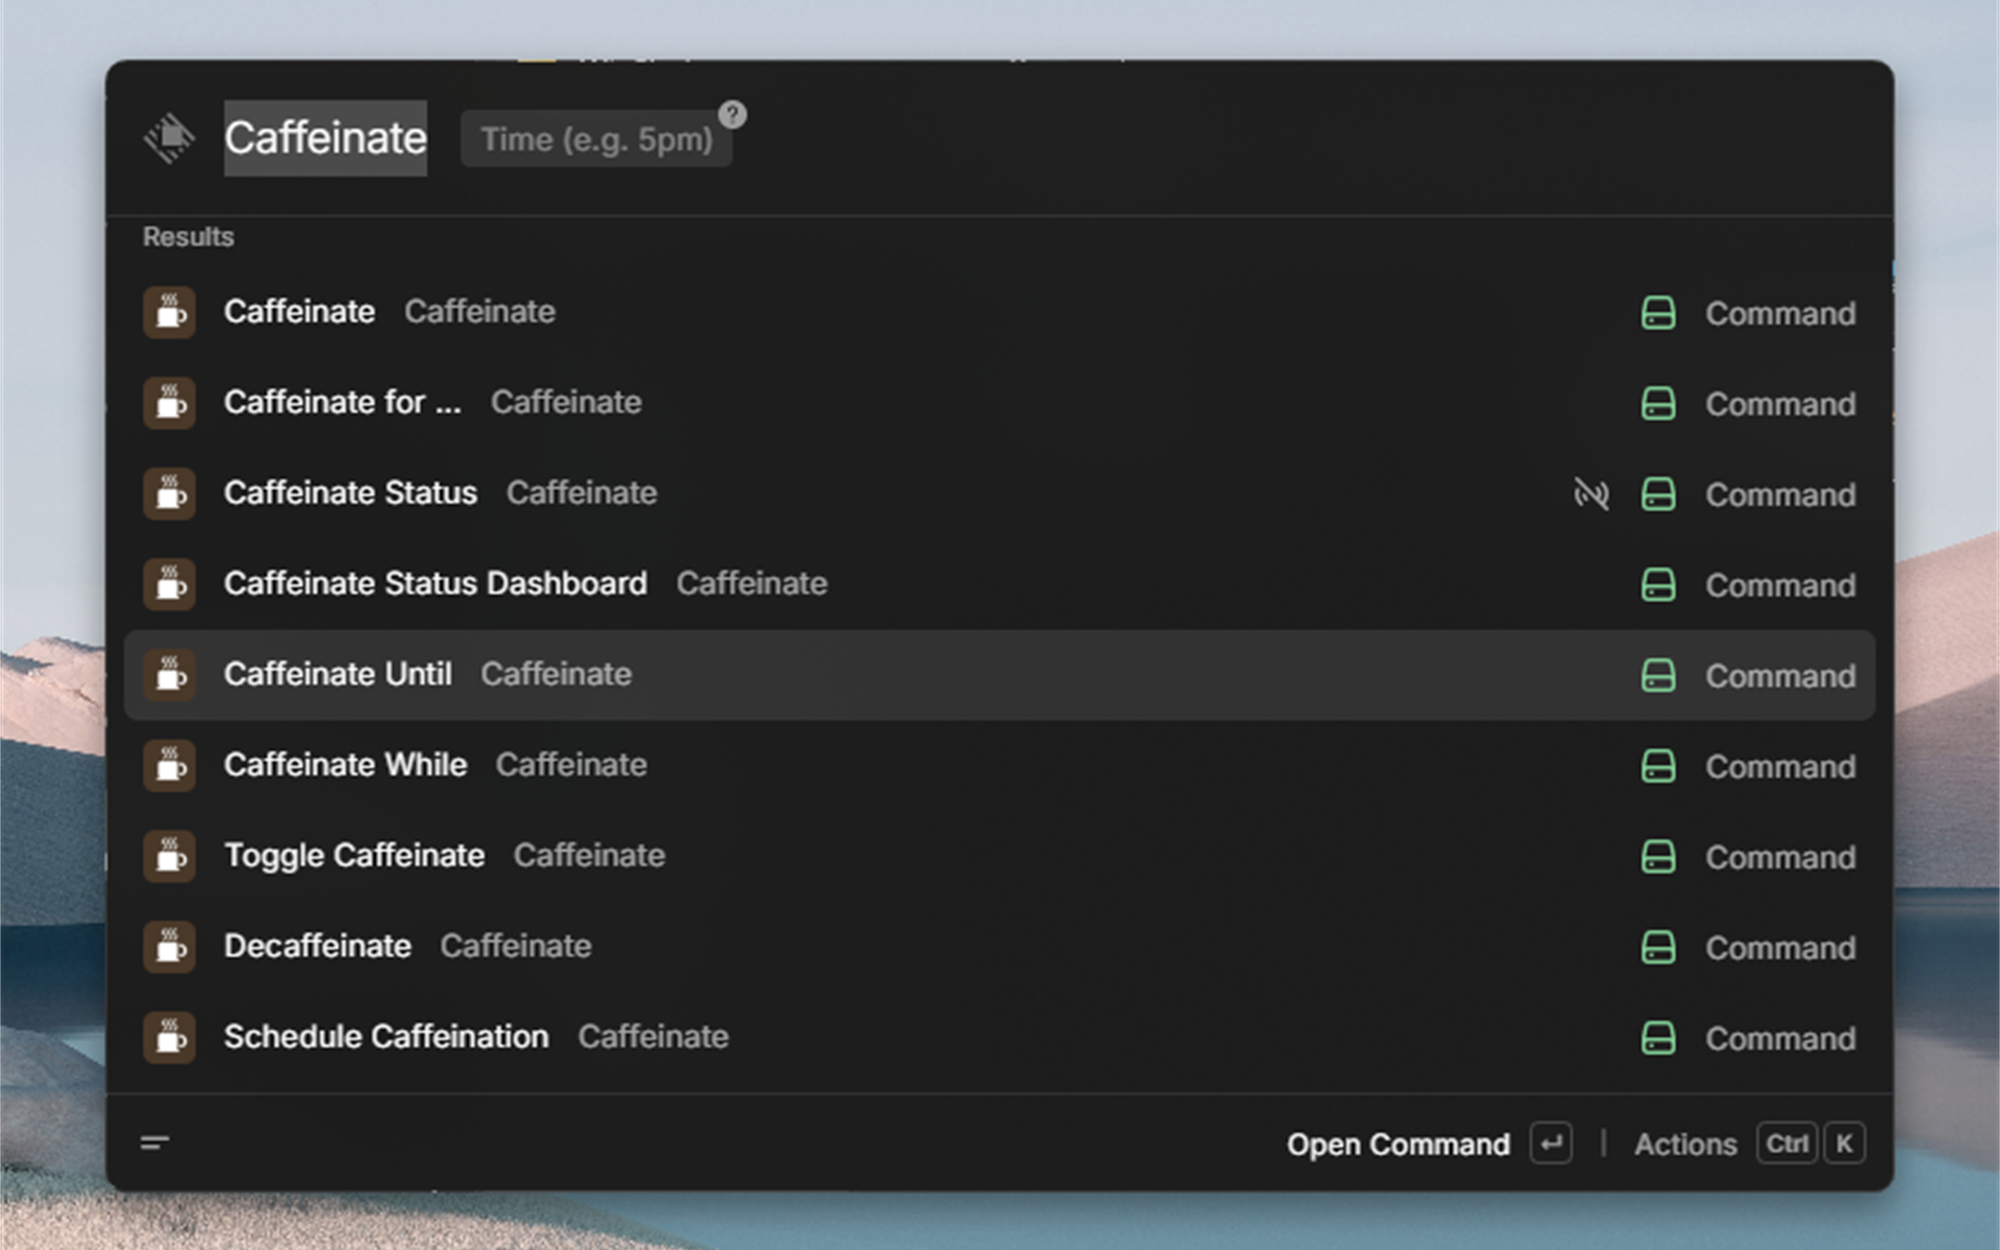
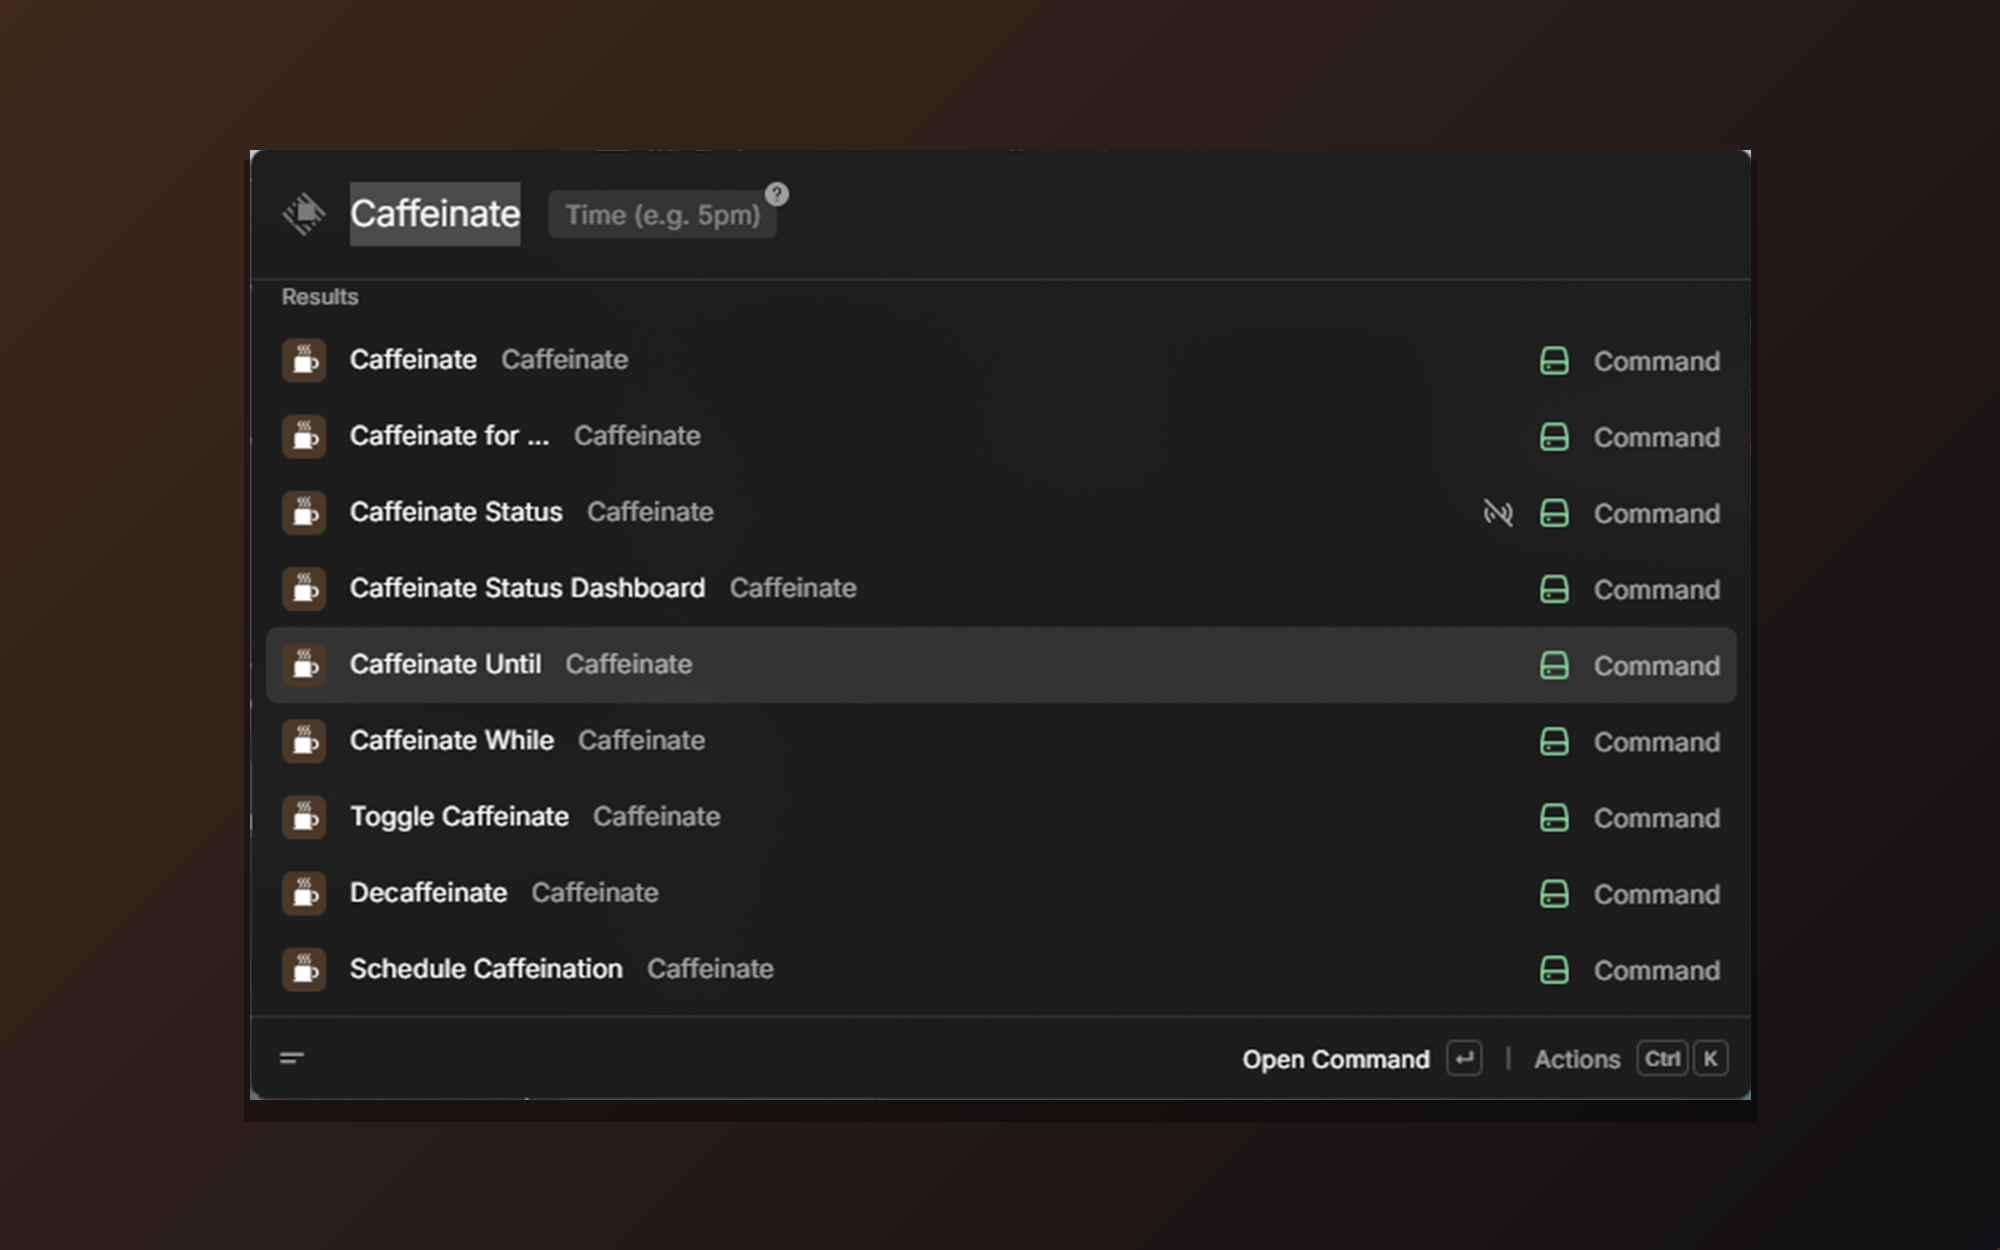
Fix PR review findings and metadata image padding
Screenshots (fixes CI "Metadata Image Enforcer" failure):
- The store requires each screenshot's app window to be a tight crop
  centered on the 2000x1250 canvas with 8-17% padding on all sides.
  The previous images filled the canvas edge-to-edge (0% left/right,
  ~0-4.7% top/bottom), which failed all 5 padding checks on all 5
  images. Regenerated by detecting the window's bounding box in each
  capture, cropping to just the window, and centering it on a warm
  gradient backdrop at ~12% padding on every side (verified exactly
  against the check's own tolerance).

Code fixes (from automated PR review):
- Fix: Start-Process's array-form -ArgumentList does not quote array
  elements containing spaces when building the child process's command
  line, so a supportPath like "C:\Users\Jane Doe\..." silently split
  into separate tokens and the helper process crashed on launch
  ("'...\Jane' does not have a '.ps1' extension") while startCaffeinate
  still reported success, since Start-Process doesn't wait for the
  child. Confirmed by direct reproduction, then fixed by building a
  single manually-quoted argument string instead of an array, and
  re-verified end to end.
- Fix: schedules crossing midnight (e.g. 22:00 to 06:00) compared
  start/end using a same-day AND condition that can never be true for
  an overnight window, so such a schedule was accepted but silently
  never activated. Now compares total minutes and handles the
[…]

diff --git a/src/extractSchedule.ts b/src/extractSchedule.ts
@@ -3,8 +3,24 @@ import { ParsedSchedule } from "./interfaces";
 
 export type { ParsedSchedule };
 
+const DAY_ABBREVIATIONS: Record<string, string> = {
+  mon: "monday",
+  tue: "tuesday",
+  tues: "tuesday",
+  wed: "wednesday",
+  weds: "wednesday",
+  thu: "thursday",
+  thur: "thursday",
+  thurs: "thursday",
+  fri: "friday",
+  sat: "saturday",
+  sun: "sunday",
+};
+
 export async function extractSchedule(text: string): Promise<ParsedSchedule | null> {
   const daysOfWeek = ["monday", "tuesday", "wednesday", "thursday", "friday", "saturday", "sunday"];
+  const weekdays = ["monday", "tuesday", "wednesday", "thursday", "friday"];
+  const weekendDays = ["saturday", "sunday"];
   const inputText = text.toLowerCase();
 
   // Extract the time range using a regex
@@ -19,21 +35,38 @@ export async function extractSchedule(text: string): Promise<ParsedSchedule | nu
 
   const [fromTime, toTime] = times;
 
-  // Extract mentioned days
-  const mentionedDays = daysOfWeek.filter((day) => inputText.includes(day));
+  const hasWord = (word: string) => new RegExp(`\\b${word}\\b`).test(inputText);
+
+  // Recognize full names, 3-4 letter abbreviations ("mon", "thurs"), and the
+  // "weekday(s)"/"weekend(s)" keywords. Previously only full weekday names
+  // were matched, so inputs like "weekdays", "weekends", or "mon" matched
+  // nothing and silently fell through to "assume all seven days" below.
+  const mentionedDays = new Set<string>();
+  for (const day of daysOfWeek) {
+    if (hasWord(day)) mentionedDays.add(day);
+  }
+  for (const [abbr, fullDay] of Object.entries(DAY_ABBREVIATIONS)) {
+    if (hasWord(abbr)) mentionedDays.add(fullDay);
+  }
+  if (hasWord("weekdays?")) {
+    weekdays.forEach((day) => mentionedDays.add(day));
+  }
+  if (hasWord("weekends?")) {
+    weekendDays.forEach((day) => mentionedDays.add(day));
+  }
 
   // Handle the "except" case
   if (inputText.includes("except")) {
-    if (mentionedDays.length === 0) {
+    if (mentionedDays.size === 0) {
       await showToast(Toast.Style.Failure, "Oops! Please mention the days to be excluded.");
       return null;
     }
-    const allDaysExcept = daysOfWeek.filter((day) => !mentionedDays.includes(day));
+    const allDaysExcept = daysOfWeek.filter((day) => !mentionedDays.has(day));
     return { days: allDaysExcept, from: fromTime, to: toTime };
   }
 
   // If no specific days are mentioned, assume all days
-  const days = mentionedDays.length > 0 ? mentionedDays : daysOfWeek;
+  const days = mentionedDays.size > 0 ? Array.from(mentionedDays) : daysOfWeek;
 
   return { days, from: fromTime, to: toTime };
 }

diff --git a/src/status.ts b/src/status.ts
@@ -12,9 +12,19 @@ async function handleScheduledCaffeinate(schedule: Schedule): Promise<boolean> {
   const currentHour = currentDate.getHours();
   const currentMinute = currentDate.getMinutes();
 
-  const isWithinSchedule =
-    (currentHour > startHour || (currentHour === startHour && currentMinute >= startMinute)) &&
-    (currentHour < endHour || (currentHour === endHour && currentMinute < endMinute));
+  const startTotalMinutes = startHour * 60 + startMinute;
+  const endTotalMinutes = endHour * 60 + endMinute;
+  const currentTotalMinutes = currentHour * 60 + currentMinute;
+
+  // An end time at or before the start time (e.g. 22:00 to 06:00) means the
+  // window crosses midnight. The plain AND comparison below only ever holds
+  // for a same-day window, so an overnight schedule would never be "within"
+  // and would silently never activate — this treats it as active whenever
+  // we're past the start OR before the end instead.
+  const isOvernight = endTotalMinutes <= startTotalMinutes;
+  const isWithinSchedule = isOvernight
+    ? currentTotalMinutes >= startTotalMinutes || currentTotalMinutes < endTotalMinutes
+    : currentTotalMinutes >= startTotalMinutes && currentTotalMinutes < endTotalMinutes;
 
   // Change isRunning to false when the schedule has finished its run
   if (isWithinSchedule === false && schedule.IsRunning === true) {
@@ -33,6 +43,11 @@ async function handleScheduledCaffeinate(schedule: Schedule): Promise<boolean> {
     // span would run caffeination well past the intended end time.
     const endTime = new Date(currentDate);
     endTime.setHours(endHour, endMinute, 0, 0);
+    if (isOvernight && currentTotalMinutes >= startTotalMinutes) {
+      // We're in the pre-midnight leg of an overnight window, so the end
+      // time is tomorrow, not today.
+      endTime.setDate(endTime.getDate() + 1);
+    }
     const duration = Math.max(1, Math.round((endTime.getTime() - currentDate.getTime()) / 1000));
     await startCaffeinate({ status: true }, undefined, { durationSeconds: duration });
     schedule.IsRunning = true;

diff --git a/src/utils.ts b/src/utils.ts
@@ -92,28 +92,23 @@ export async function startCaffeinate(
   const durationSeconds = opts?.durationSeconds ?? 0;
   const watchPid = opts?.watchPid ?? 0;
 
-  // Every element must be a quoted PowerShell string literal here — this
-  // builds a `@(...)` array literal, not a native PowerShell command line,
-  // so bare tokens like -NoProfile would fail to parse.
-  const helperArgs = [
-    "-NoProfile",
-    "-ExecutionPolicy",
-    "Bypass",
-    "-File",
-    scriptPath,
-    "-DurationSeconds",
-    String(durationSeconds),
-    "-WatchPid",
-    String(watchPid),
-  ];
+  // Start-Process's array-form -ArgumentList does NOT quote array elements
+  // that contain spaces when it builds the child process's command line, so
+  // a supportPath like "C:\Users\Jane Doe\..." splits into separate tokens
+  // and the child fails immediately ("'...\Jane' does not have a '.ps1'
+  // extension") — the command still reports success since Start-Process
+  // itself doesn't wait for the child. Confirmed by direct testing. The fix
+  // is to build one single argument string ourselves, with the path
+  // manually double-quoted, instead of letting -ArgumentList join an array.
+  let argString = `-NoProfile -ExecutionPolicy Bypass -File "${scriptPath}" -DurationSeconds ${durationSeconds} -WatchPid ${watchPid}`;
   if (preferences.preventDisplay) {
-    helperArgs.push("-PreventDisplay");
+    argString += " -PreventDisplay";
   }
   if (preferences.preventSystem) {
-    helperArgs.push("-PreventSystem");
+    argString += " -PreventSystem";
   }
 
-  const launcherScript = `Start-Process -WindowStyle Hidden -FilePath 'powershell.exe' -ArgumentList @(${helperArgs.map(psQuote).join(", ")}) | Out-Null`;
+  const launcherScript = `Start-Process -WindowStyle Hidden -FilePath 'powershell.exe' -ArgumentList ${psQuote(argString)} | Out-Null`;
 
   await runPowerShellScript(launcherScript, { timeout: 8000 });
   await update(updates, true);

diff --git a/src/tools/schedule-caffeination.ts b/src/tools/schedule-caffeination.ts
@@ -31,16 +31,23 @@ export default async function (input: Input) {
     IsRunning: false,
   }));
 
-  // Save schedules and check if today's schedule should be running
+  // Save first, then check. checkSchedule() reads today's entry from
+  // LocalStorage, so checking before saving (as this previously did) reads
+  // stale/missing data — if the request lands inside the new schedule's
+  // active window, it would incorrectly save IsRunning: false and delay
+  // activation until the next 15s background tick instead of now.
+  for (const schedule of newSchedules) {
+    await LocalStorage.setItem(schedule.day, JSON.stringify(schedule));
+  }
+
   const currentDate = new Date();
   const currentDayString = numberToDayString(currentDate.getDay()).toLowerCase();
   const isScheduleRunning = await checkSchedule();
 
-  for (const schedule of newSchedules) {
-    if (currentDayString === schedule.day) {
-      schedule.IsRunning = isScheduleRunning;
-    }
-    await LocalStorage.setItem(schedule.day, JSON.stringify(schedule));
+  const todaysSchedule = newSchedules.find((schedule) => schedule.day === currentDayString);
+  if (todaysSchedule && isScheduleRunning) {
+    todaysSchedule.IsRunning = true;
+    await LocalStorage.setItem(todaysSchedule.day, JSON.stringify(todaysSchedule));
   }
 
   const daysFormatted = days.map((day) => day.charAt(0).toUpperCase() + day.slice(1)).join(", ");
